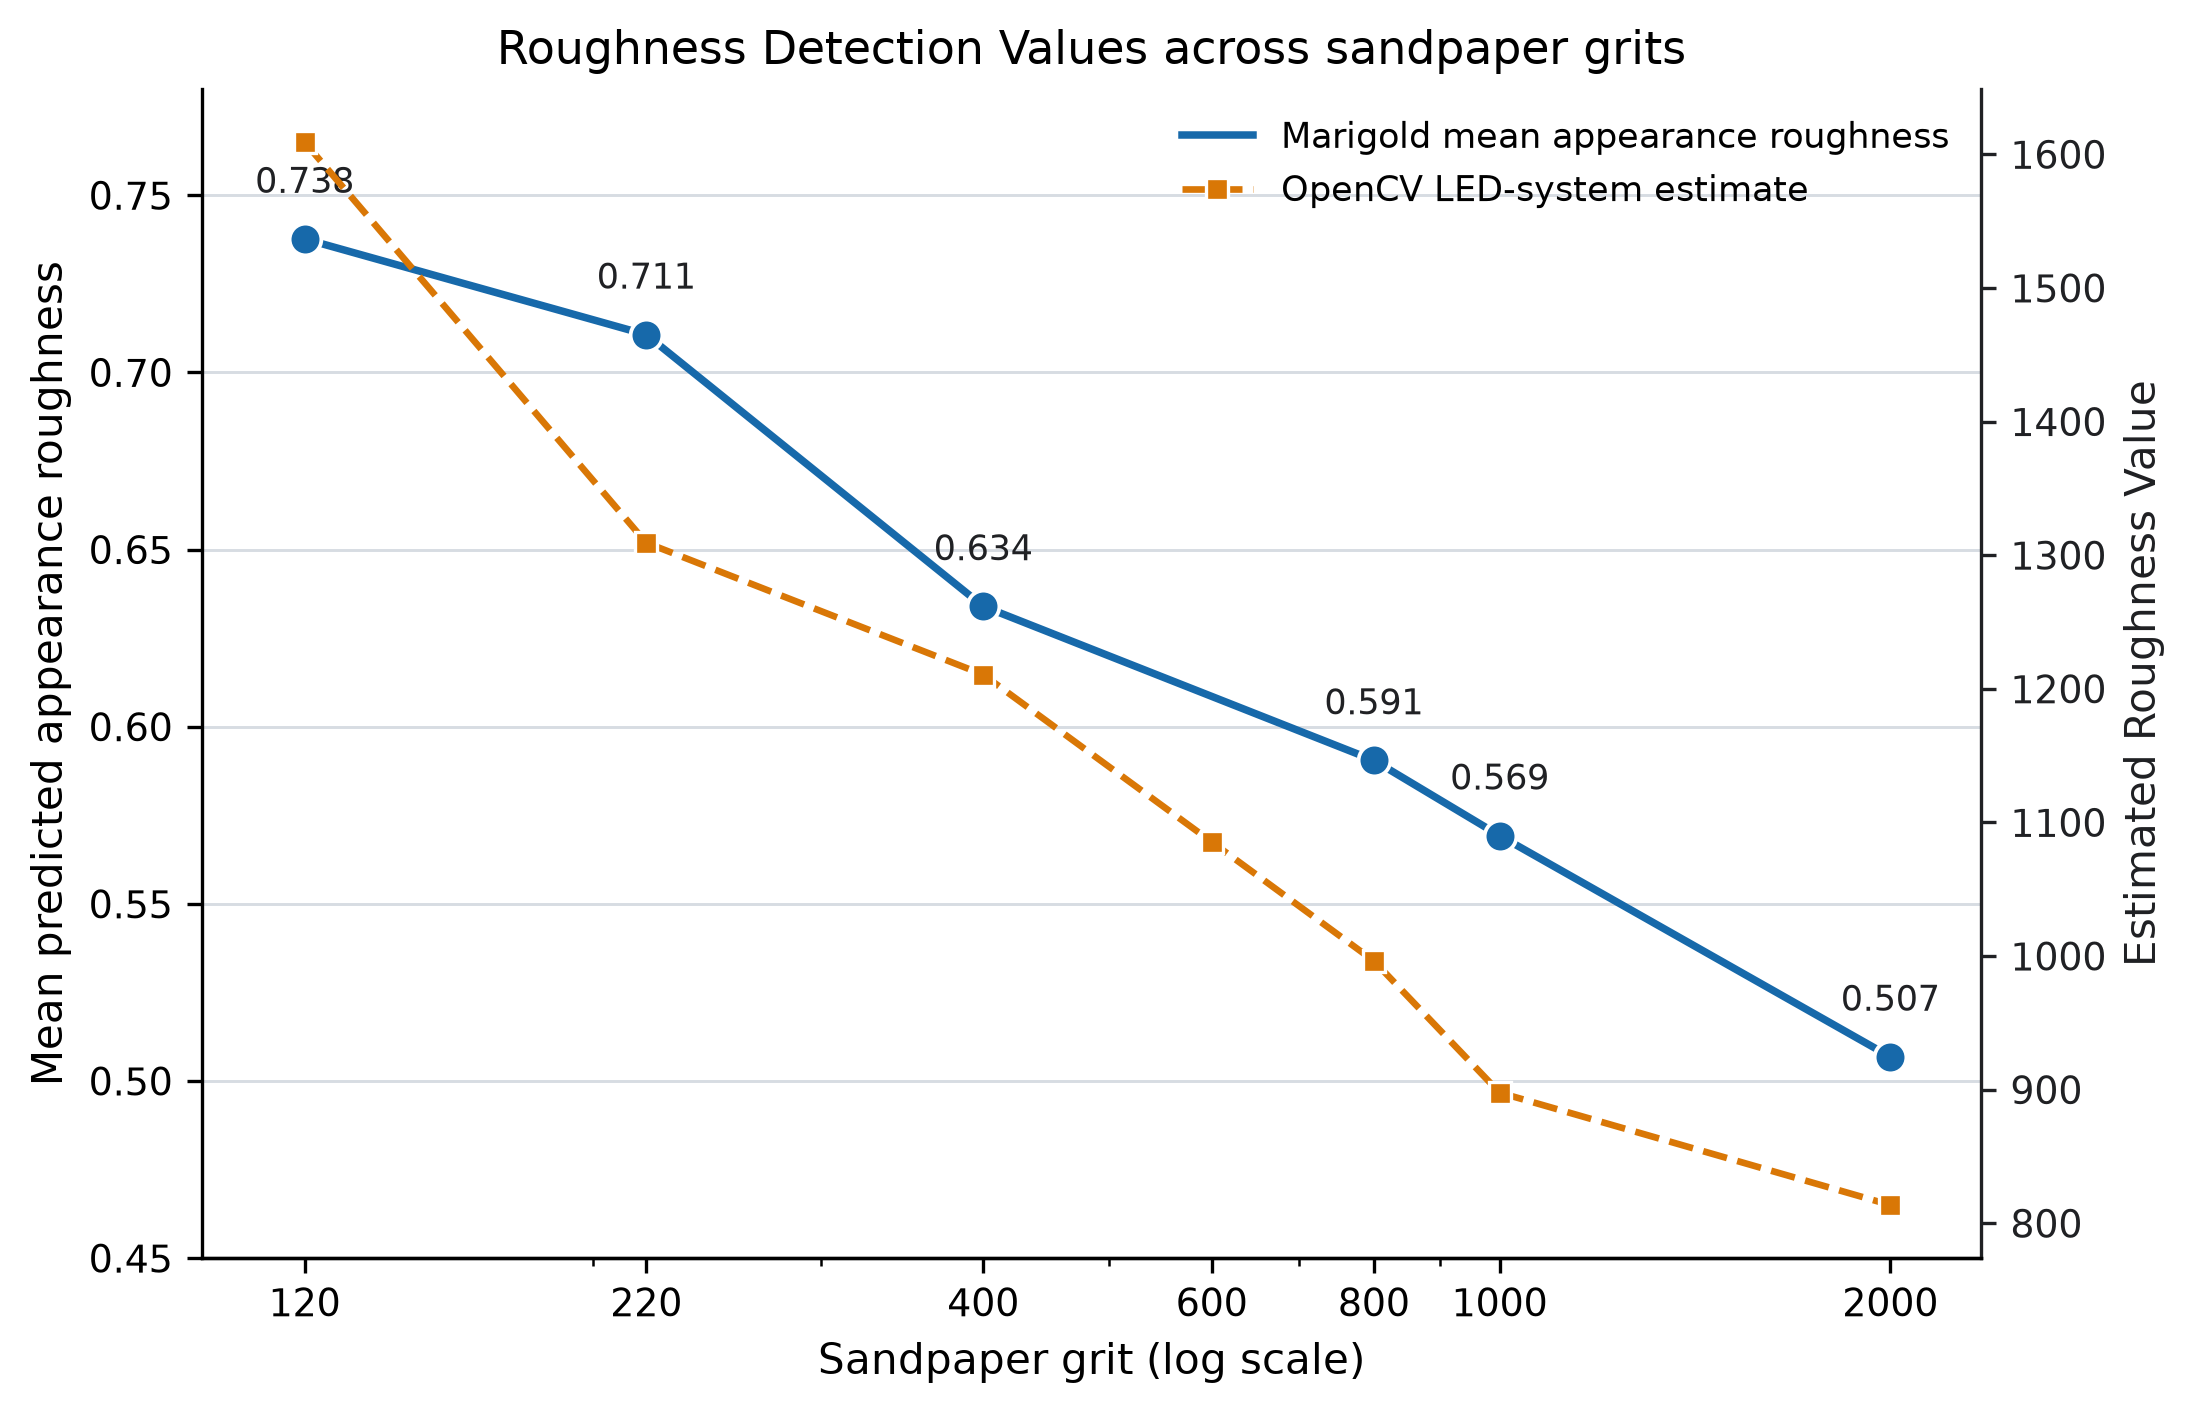
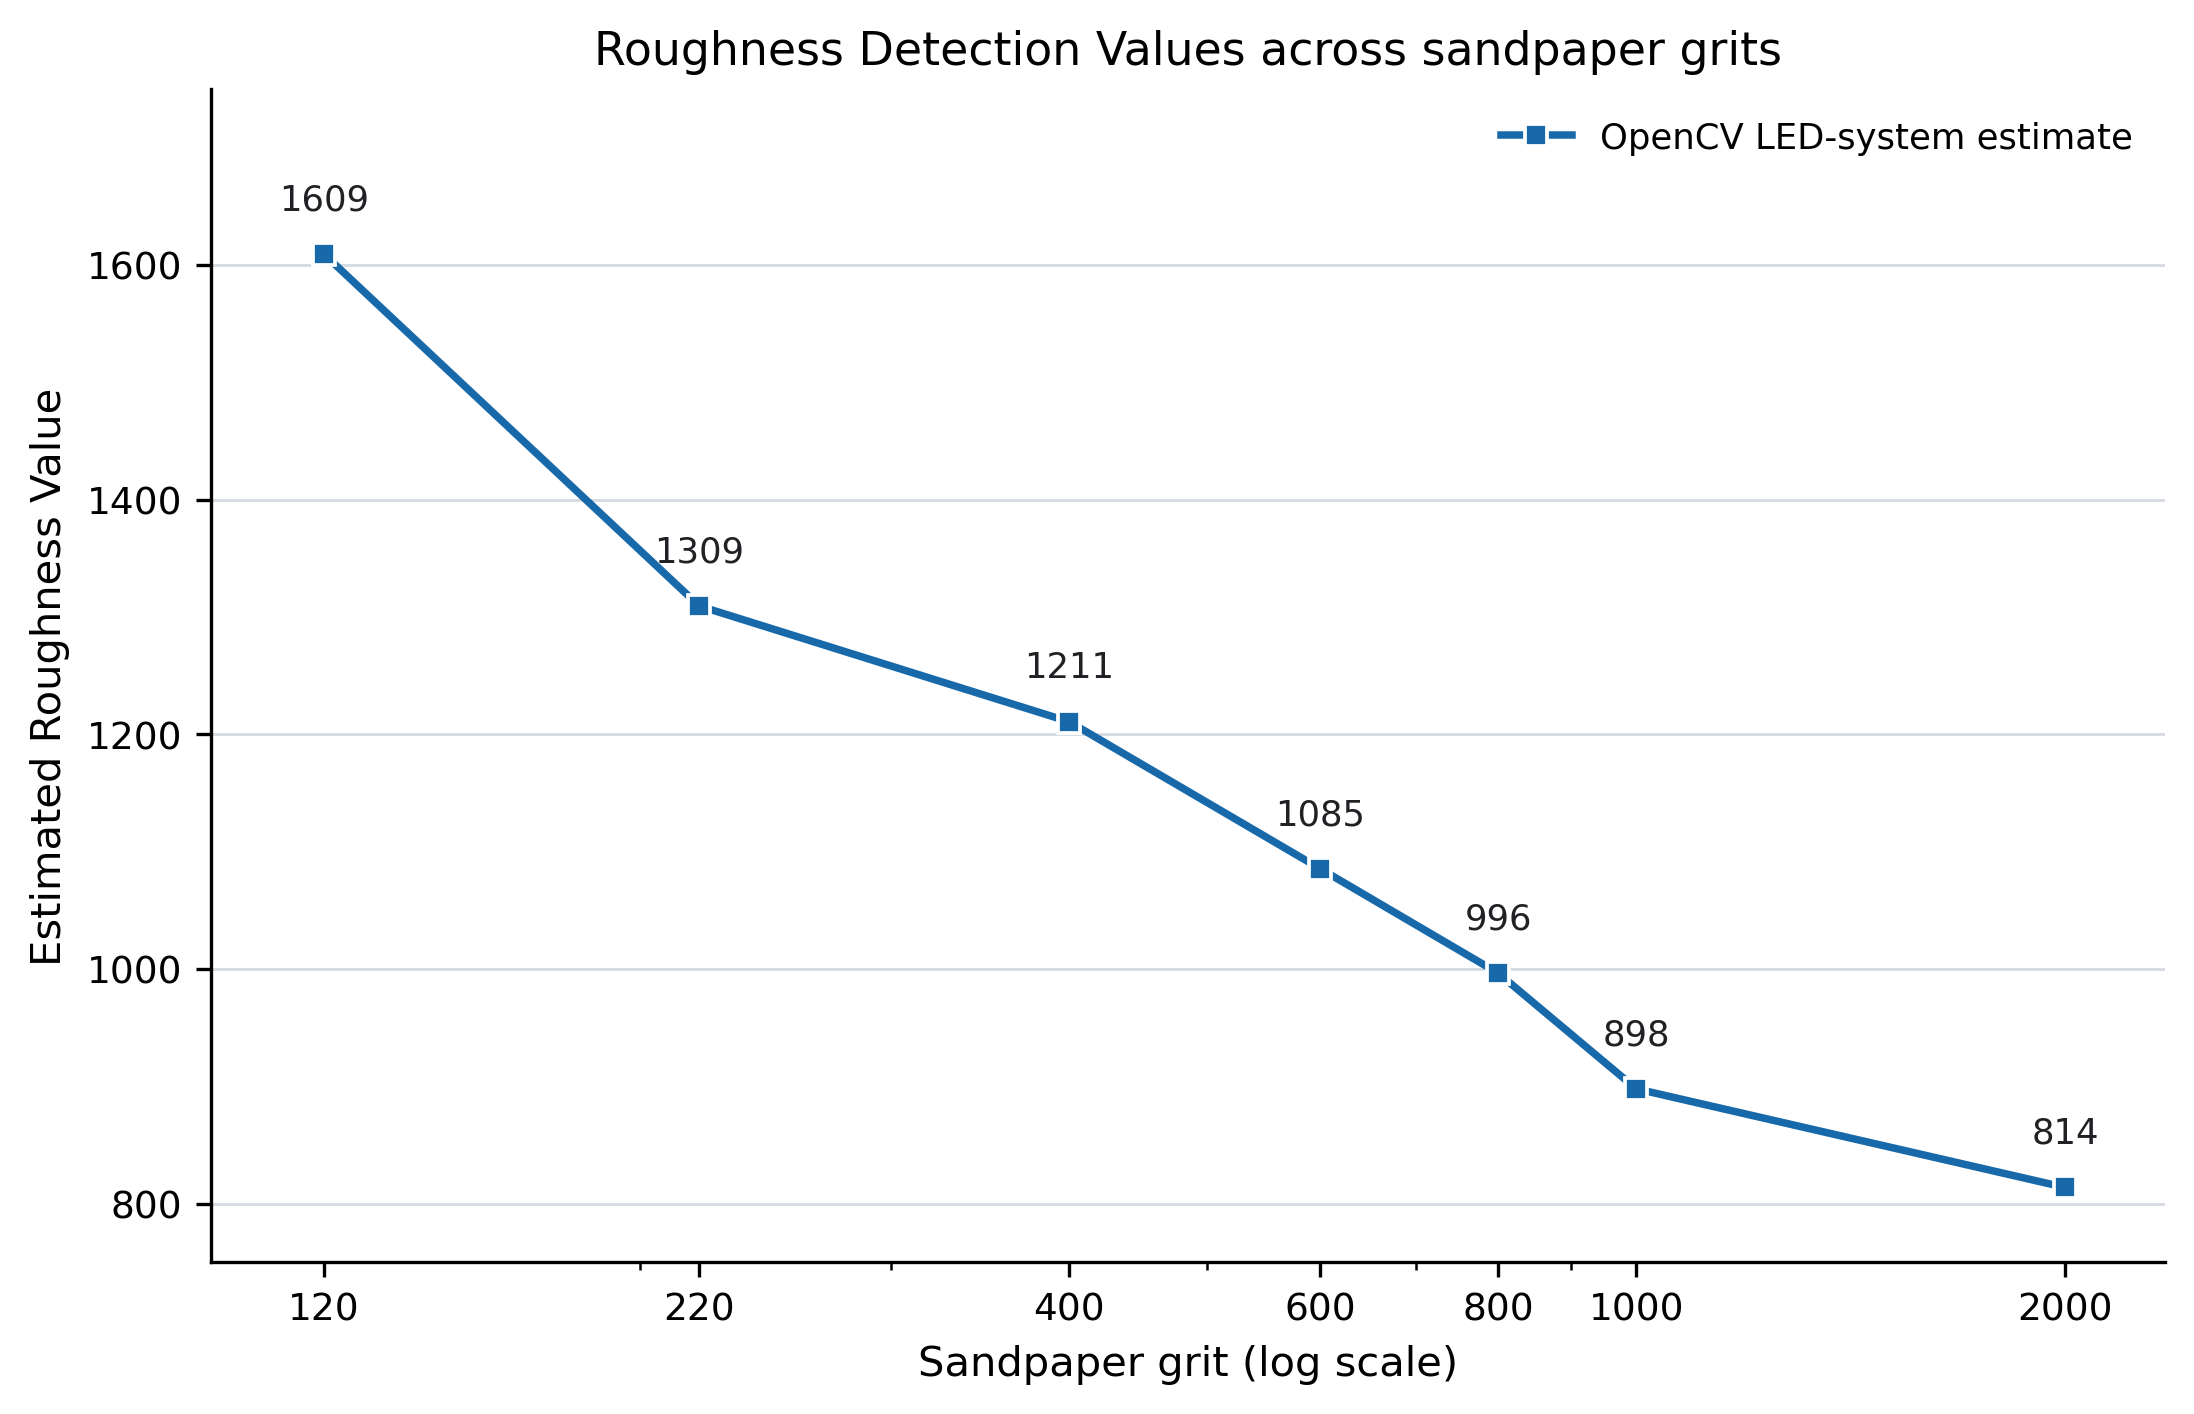
gantry B6

diff --git a/Figures/sandpaper_roughness/generate_sandpaper_roughness_figures.py b/Figures/sandpaper_roughness/generate_sandpaper_roughness_figures.py
@@ -34,7 +34,6 @@ OPENCV_LED_ESTIMATES = {
     2000: 813.68,
 }
 BLUE = "#1769aa"
-ORANGE = "#d97706"
 DARK = "#202124"
 GRID = "#d7dce2"
 PANEL_BORDER = "#aeb6bf"
@@ -50,11 +49,19 @@ class SandpaperRun:
     source_sha256: str
 
 
+def _run_dir(grit: int) -> Path:
+    return RUN_ROOT / f"upload_sand_{grit}_jpeg" / "roughness" / "streamlit"
+
+
+def _metadata_path(grit: int) -> Path:
+    return _run_dir(grit) / "metadata.json"
+
+
 def _load_runs() -> list[SandpaperRun]:
     runs: list[SandpaperRun] = []
     for grit in GRITS:
-        run_dir = RUN_ROOT / f"upload_sand_{grit}_jpeg" / "roughness" / "streamlit"
-        metadata_path = run_dir / "metadata.json"
+        run_dir = _run_dir(grit)
+        metadata_path = _metadata_path(grit)
         if not metadata_path.is_file():
             raise FileNotFoundError(f"Missing Marigold metadata: {metadata_path}")
         metadata = json.loads(metadata_path.read_text(encoding="utf-8"))
@@ -124,28 +131,28 @@ def _write_source_data(runs: list[SandpaperRun]) -> None:
             )
 
 
-def _make_grit_plot(runs: list[SandpaperRun]) -> None:
-    grits = np.asarray([run.grit for run in runs], dtype=np.float64)
-    means = np.asarray([run.mean_roughness for run in runs], dtype=np.float64)
+def _make_grit_plot() -> None:
     led_grits = np.asarray(sorted(OPENCV_LED_ESTIMATES), dtype=np.float64)
     led_estimates = np.asarray(
         [OPENCV_LED_ESTIMATES[int(grit)] for grit in led_grits], dtype=np.float64
     )
     fig, ax = plt.subplots(figsize=(7.2, 4.6), constrained_layout=True)
-    ax.plot(grits, means, color=BLUE, linewidth=1.8, zorder=2)
-    ax.scatter(
-        grits,
-        means,
-        s=58,
+    ax.plot(
+        led_grits,
+        led_estimates,
         color=BLUE,
-        edgecolor="white",
-        linewidth=0.9,
-        zorder=3,
+        linewidth=1.8,
+        marker="s",
+        markersize=5.5,
+        markerfacecolor=BLUE,
+        markeredgecolor="white",
+        markeredgewidth=0.9,
+        zorder=2,
     )
-    for grit, mean in zip(grits, means, strict=True):
+    for grit, estimate in zip(led_grits, led_estimates, strict=True):
         ax.annotate(
-            f"{mean:.3f}",
-            (grit, mean),
+            f"{estimate:.0f}",
+            (grit, estimate),
             xytext=(0, 9),
             textcoords="offset points",
             ha="center",
@@ -154,43 +161,24 @@ def _make_grit_plot(runs: list[SandpaperRun]) -> None:
             fontsize=8.5,
         )
 
-    ax2 = ax.twinx()
-    ax2.plot(
-        led_grits,
-        led_estimates,
-        color=ORANGE,
-        linewidth=1.6,
-        linestyle="--",
-        marker="s",
-        markersize=5.5,
-        markerfacecolor=ORANGE,
-        markeredgecolor="white",
-        markeredgewidth=0.8,
-        zorder=2,
-    )
-
     ax.set_xscale("log")
     ax.set_xticks(led_grits)
     ax.get_xaxis().set_major_formatter(ScalarFormatter())
     ax.set_xlim(100, 2350)
-    ax.set_ylim(0.45, 0.78)
+    ax.set_ylim(750, 1750)
     ax.set_xlabel("Sandpaper grit (log scale)")
-    ax.set_ylabel("Mean predicted appearance roughness")
-    ax2.set_ylabel("Estimated Roughness Value", color=DARK)
-    ax2.tick_params(axis="y", colors=DARK)
-    ax2.spines["top"].set_visible(False)
-    ax2.spines["left"].set_visible(False)
-    ax2.spines["right"].set_color(DARK)
+    ax.set_ylabel("Estimated Roughness Value")
     ax.set_title("Roughness Detection Values across sandpaper grits")
     ax.grid(axis="y", color=GRID, linewidth=0.7)
     ax.grid(axis="x", visible=False)
     ax.spines[["top", "right"]].set_visible(False)
-    lines = ax.get_lines() + ax2.get_lines()
-    labels = [
-        "Marigold mean appearance roughness",
-        "OpenCV LED-system estimate",
-    ]
-    ax.legend(lines, labels, loc="upper right", frameon=False, fontsize=8.5)
+    ax.legend(
+        ax.get_lines(),
+        ["OpenCV LED-system estimate"],
+        loc="upper right",
+        frameon=False,
+        fontsize=8.5,
+    )
     _save_figure(fig, "sandpaper_grit_vs_appearance_roughness")
 
 
@@ -307,10 +295,15 @@ def _make_pipeline_montage(runs: list[SandpaperRun]) -> None:
 
 def main() -> None:
     _set_paper_style()
-    runs = _load_runs()
-    _write_source_data(runs)
-    _make_grit_plot(runs)
-    _make_pipeline_montage(runs)
+    # The grit plot is built from the OpenCV LED estimates alone, so it stays
+    # reproducible even when the saved Marigold runs are not available locally.
+    _make_grit_plot()
+    if all(_metadata_path(grit).is_file() for grit in GRITS):
+        runs = _load_runs()
+        _write_source_data(runs)
+        _make_pipeline_montage(runs)
+    else:
+        print(f"Skipping Marigold-derived outputs: no runs under {RUN_ROOT}")
     print(f"Generated sandpaper figures in {FIGURES_DIR}")
 
 
